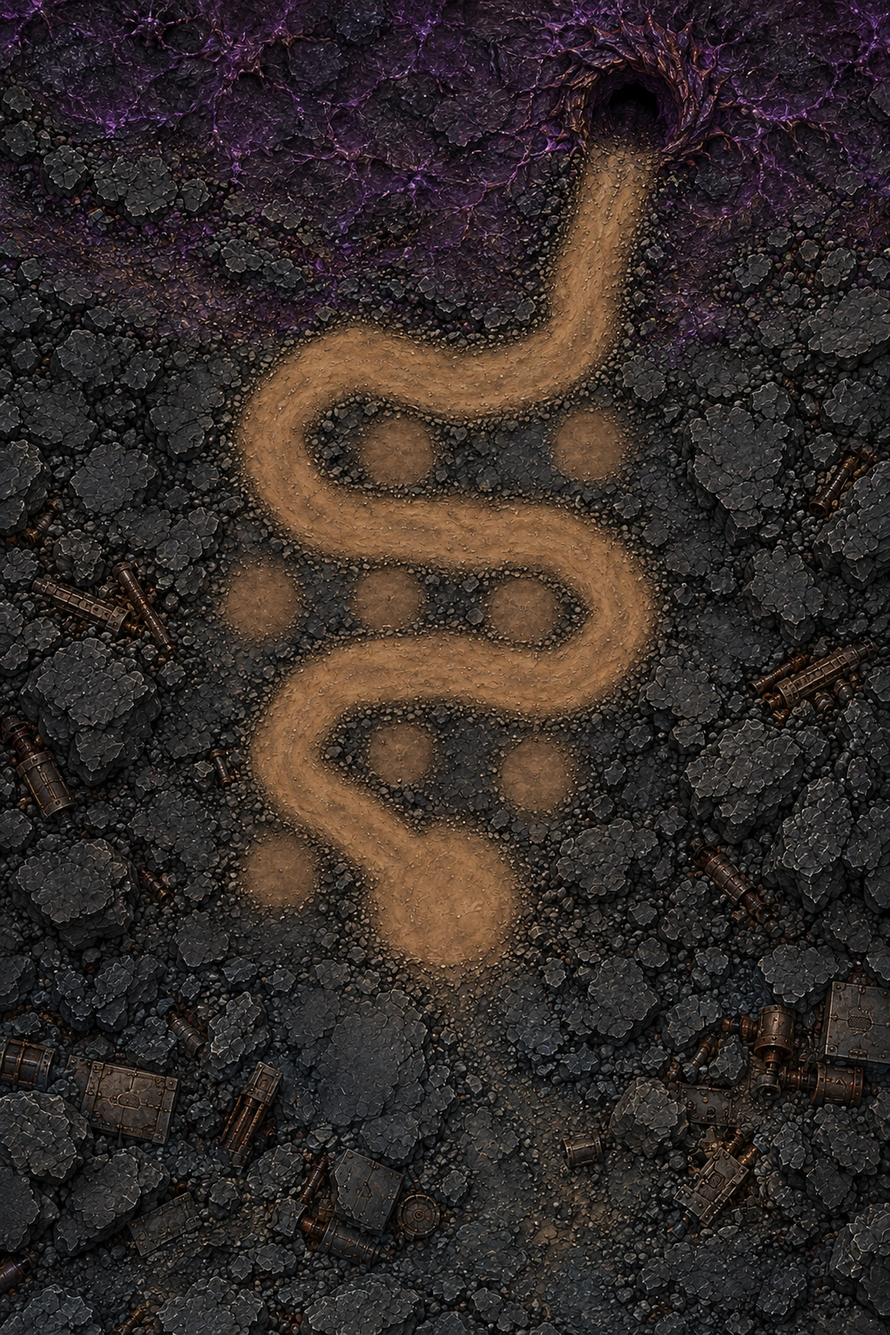
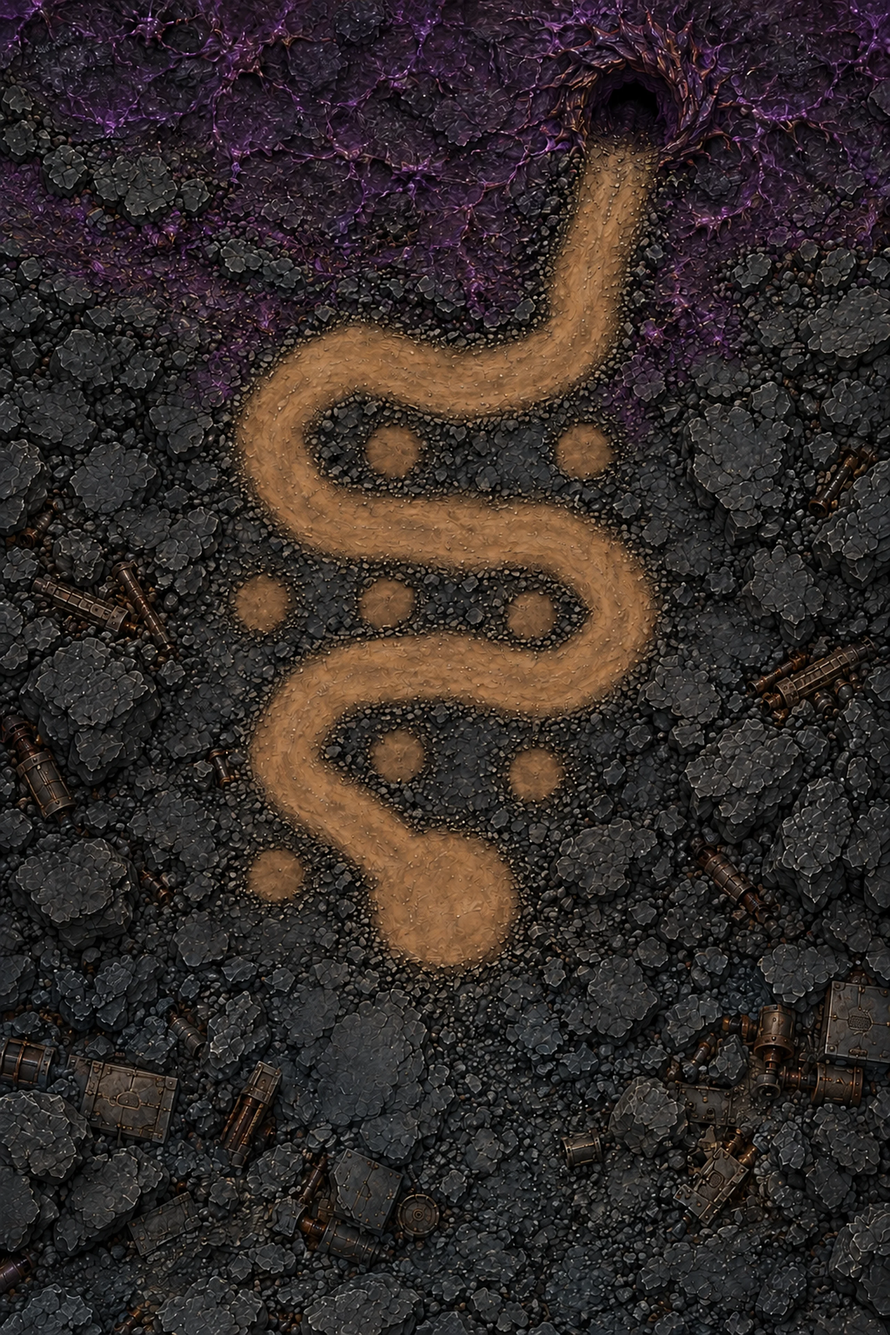
Edit portrait round 2 for hive visibility and tighter clearings

diff --git a/public/td/environment/road/NOTES.md b/public/td/environment/road/NOTES.md
@@ -1,20 +1,24 @@
 # Single-road terrain paintings
 
-- portrait.webp: 2560×3840, 1,423,508 bytes, WebP quality 85; portrait round 1, awaiting owner feedback.
-- Original generation: docs/towerdefense/paint-guide/rounds/portrait-1/painting.png, 1024×1536.
-- The round also contains a byte-identical portrait.webp, geometry overlay and two real-sprite review mocks.
+- portrait.webp: 2560×3840, 1,203,146 bytes, WebP quality 85; portrait round 2, awaiting owner feedback.
+- Current painting: docs/towerdefense/paint-guide/rounds/portrait-2/painting.png, 1024×1536.
+- Round 2 also contains a byte-identical portrait.webp and all 10 review-script outputs, including three HUD captures.
+- Round 1 remains archived in docs/towerdefense/paint-guide/rounds/portrait-1/.
 - Landscape has not been painted; it requires the owner's explicit "portrait approved" first.
 
 Registration comes from src/games/towerdefense/sim/road.ts (unchanged):
-- PAINT_BOX = { x0: -40, y0: -60, x1: 120, y1: 180 } in world units.
+- PAINT_BOXES.portrait = { x0: -40, y0: -60, x1: 120, y1: 180 } in world units (also PAINT_BOX).
 - worldToPaint('portrait', p, 1536) = { x: (p.x + 40) * 6.4, y: (p.y + 60) * 6.4 }.
 - Production registration uses long=3840: { x: (p.x + 40) * 16, y: (p.y + 60) * 16 }.
 - The entire image is terrain overflow; the safe field is world x=0..80, y=0..112.
 
-Made with image generation, painting directly from portrait-guide.png with background.webp as the material reference.
+Round 1 used image generation from portrait-guide.png with background.webp as the material reference.
+Round 2 edited round 1's painting against the updated guide, preserving its layout and landmarks.
+It extends hive creep into the upper field, tightens clearings to ~31 px and removes the trail past the apron.
 The listed machinery previews, guide mocks and HUD sketches were inspected for scale, lighting and readability.
 Camera is orthographic from above; soft light comes from the top of the portrait frame.
 Upscaled with ImageMagick: convert painting.png -filter Lanczos -resize 2560x3840! -quality 85 portrait.webp.
 Reviewed using npm run dev -- --port 5203 --host 127.0.0.1, then node scripts/td-paint-guide.mjs.
-The check follows the fixed road/shoulders and preserves empty clearings/apron; see the round's NOTES.md.
+The check follows the fixed road/shoulders; the empty clearings/apron and all three HUD previews were reviewed.
+See each round's NOTES.md for its readability review and pending owner feedback.
 Existing background.webp and runtime source remain unchanged; runtime switchover is separate.

diff --git a/docs/towerdefense/paint-guide/rounds/portrait-2/NOTES.md b/docs/towerdefense/paint-guide/rounds/portrait-2/NOTES.md
@@ -1,0 +1,15 @@
+# Portrait round 2
+- Merged td-single-lane through 8b4a15f and re-read the updated PROMPT.md, guides and review script.
+- Edited round 1's painting with the new portrait guide; retained its composition, road, basalt and salvage landmarks.
+- Extended matte violet staining, tendrils and small growths into the first crossing's rock banks, fading before crossing two.
+- Creep remains off the road and clearings; the hive side now reads below status rows on iPad, iPad Pro and phone.
+- Tightened all eight clearings to the new ~31 px green circles, with defined short rock transitions and no soft halo.
+- Removed the trail below the apron; the salvage yard behind it is basalt and debris only.
+- Overlay: no visible road registration misses; empty clearings and apron fit their prescribed locations.
+- Reviewed both sprite mocks and all three HUD captures: blue skitters/Gliders, red warriors/rams, purple bulwark/broodmother and gold Tyrant all read; none get lost.
+- Towers fit their clearings naturally; the four empty sites read as build locations with the game's hex markers.
+- Outpost sits on a quiet apron; no painted glow or unit-like clutter competes with the sprites.
+- HUD review: gameplay sprites, build sites and apron remain clear of status/HUD panels; no red coverage frame on any device.
+- Ran node scripts/td-paint-guide.mjs; archived all 10 outputs, including both orientations' guides and three portrait HUD captures.
+- Painting: 1024×1536; Lanczos 2.5× upscale to 2560×3840 WebP quality 85; typecheck and 160 tower-defense tests pass.
+- Uncertainty: final creep intensity remains an owner preference; stopped for feedback, with no landscape painting started.
